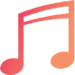
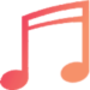
lanote finitions 2

diff --git a/html/lanote.html b/html/lanote.html
@@ -70,7 +70,7 @@
                 <p>Baba au rhum revisité avec son coulis de citron</p>
                 <p>Tarte au citron meringuée destructurée</p>
             </div>
-            <h3 class="fin_de_menu"><img src="../img/elements/small-music_icone.png" alt="">La note enchantée</h3>
+            <h3 class="fin_de_menu"><img src="../img/elements/small-music_icone.png"  class ="test" alt="">La note enchantée</h3>
         </article>
         
     </div> <!-- end "bloc_page_lanote" -->

diff --git a/html/css/lanote.css b/html/css/lanote.css
@@ -29,10 +29,10 @@
     margin-top: 50px;
 }
 
-
 /* ########## ELEMENTS GRAPHIQUES ########## */
 .fin_de_menu img{
     margin-right: 10px;
+    vertical-align: middle;
 }
 
 .img-l-prelude, .img-l-orgue,.img-l-mouvement{
